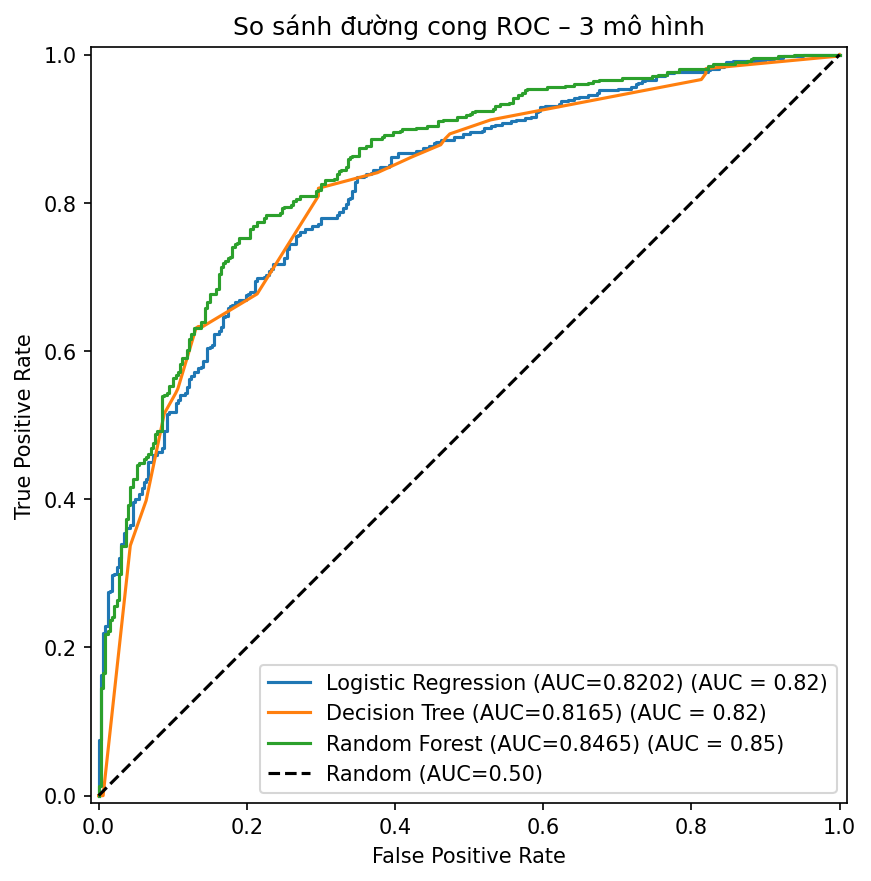
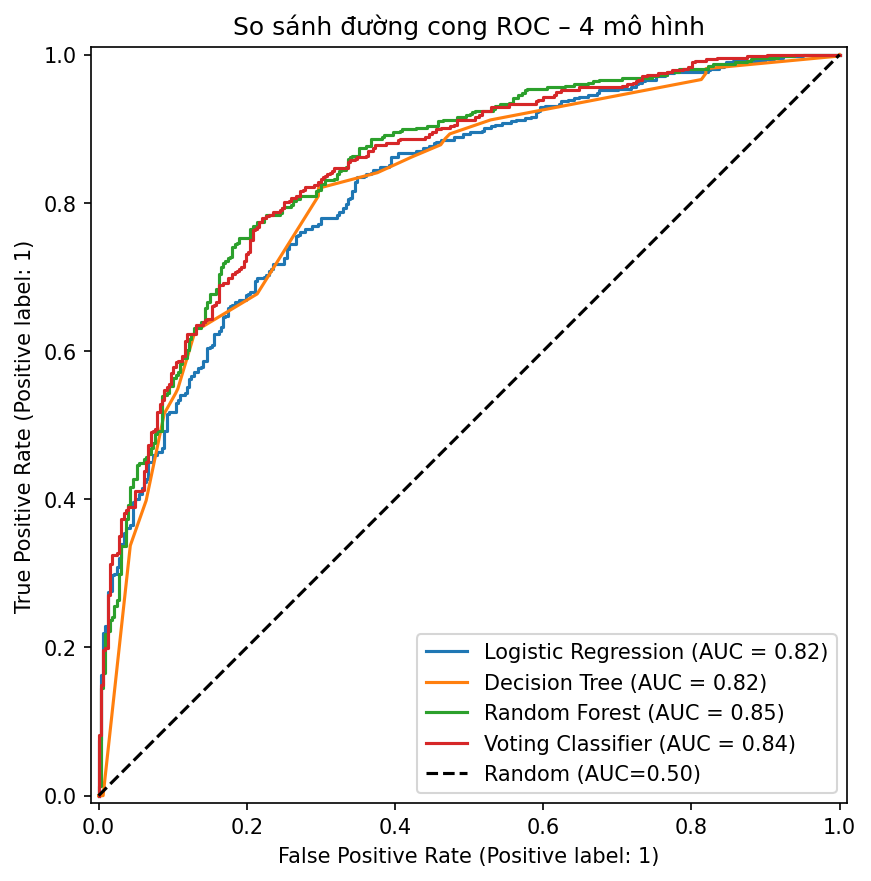
feat: add Voting Classifier to train.py, update figures

diff --git a/src/train.py b/src/train.py
@@ -1,34 +1,45 @@
 from sklearn.linear_model import LogisticRegression
 from sklearn.tree import DecisionTreeClassifier
-from sklearn.ensemble import RandomForestClassifier
+from sklearn.ensemble import RandomForestClassifier, VotingClassifier
 from sklearn.metrics import accuracy_score, f1_score, roc_auc_score
 import pandas as pd
 import joblib
 
 def train(X_train, X_test, X_train_scaled, X_test_scaled, y_train, y_test):
-    models = {}
 
-    # Logistic Regression
+    # Khởi tạo 3 mô hình cơ bản
     lr = LogisticRegression(class_weight='balanced', max_iter=1000, random_state=42)
-    lr.fit(X_train_scaled, y_train)
-    models['Logistic Regression'] = (lr, X_test_scaled)
-
-    # Decision Tree
     dt = DecisionTreeClassifier(max_depth=5, class_weight='balanced', random_state=42)
-    dt.fit(X_train, y_train)
-    models['Decision Tree'] = (dt, X_test)
-
-    # Random Forest
     rf = RandomForestClassifier(n_estimators=100, max_depth=10,
                                 class_weight='balanced', random_state=42, n_jobs=-1)
+
+    # Train từng mô hình
+    lr.fit(X_train_scaled, y_train)
+    dt.fit(X_train, y_train)
     rf.fit(X_train, y_train)
-    models['Random Forest'] = (rf, X_test)
+
+    # Voting Classifier
+    voting = VotingClassifier(estimators=[
+        ('lr', LogisticRegression(class_weight='balanced', max_iter=1000, random_state=42)),
+        ('dt', DecisionTreeClassifier(max_depth=5, class_weight='balanced', random_state=42)),
+        ('rf', RandomForestClassifier(n_estimators=100, max_depth=10,
+                                      class_weight='balanced', random_state=42, n_jobs=-1))
+    ], voting='soft')
+    voting.fit(X_train, y_train)
 
     # Lưu model tốt nhất
     joblib.dump(rf, "models/random_forest.pkl")
-    print("Đã lưu Random Forest vào models/random_forest.pkl")
+    joblib.dump(voting, "models/voting_classifier.pkl")
+    print("Đã lưu mô hình vào thư mục models/")
 
-    # Kết quả
+    # Đánh giá
+    models = {
+        'Logistic Regression': (lr,     X_test_scaled),
+        'Decision Tree':       (dt,     X_test),
+        'Random Forest':       (rf,     X_test),
+        'Voting Classifier':   (voting, X_test),
+    }
+
     results = []
     for name, (model, X_t) in models.items():
         y_pred = model.predict(X_t)
